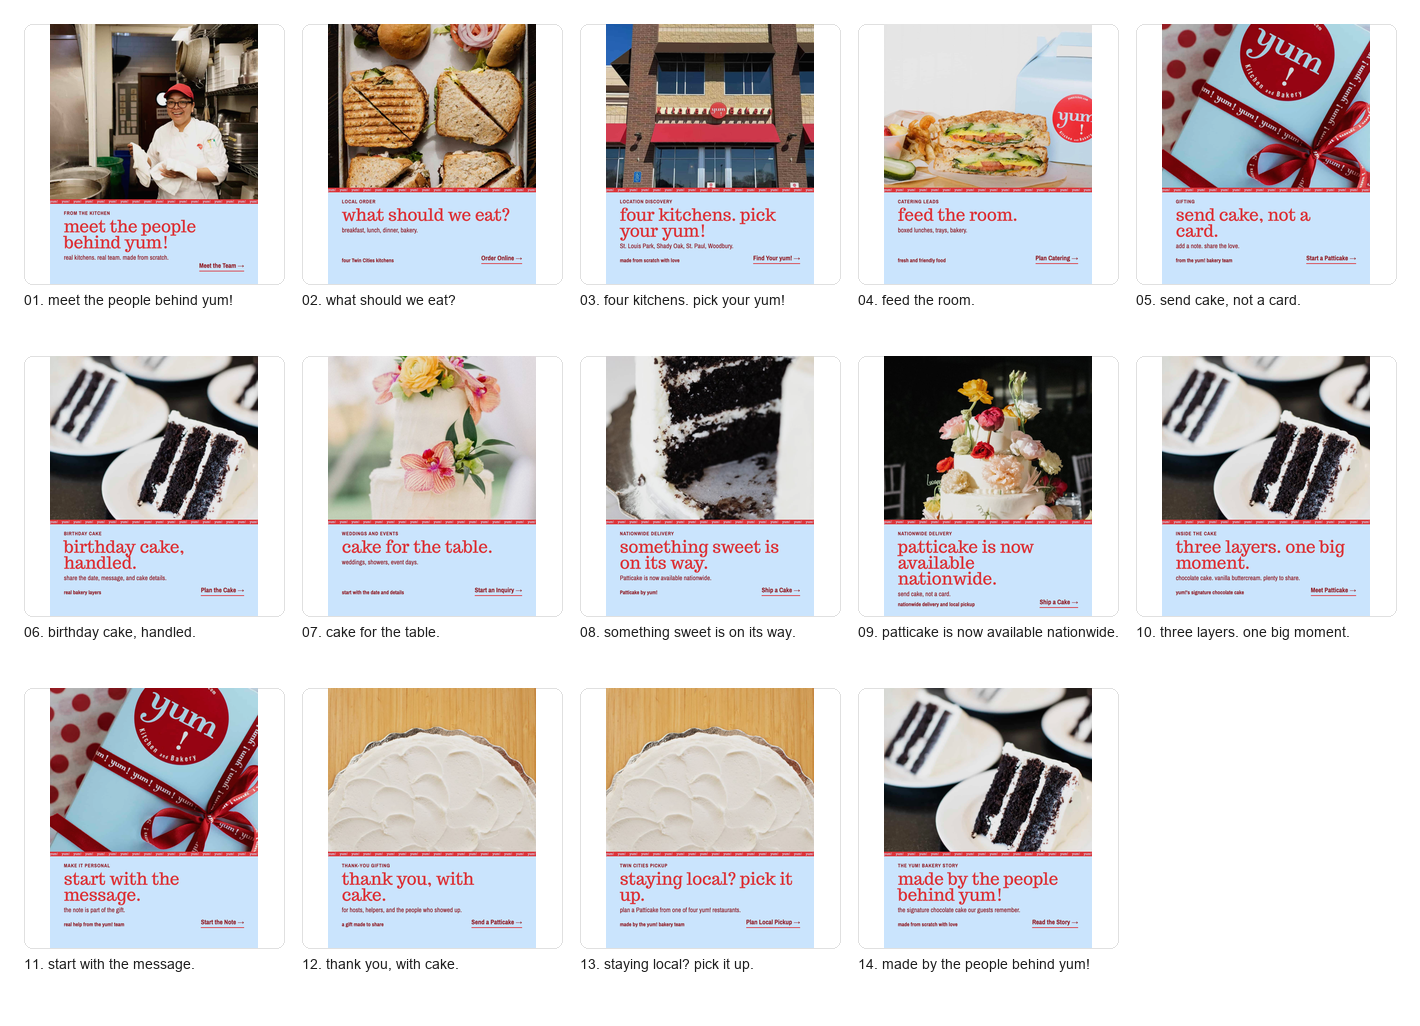
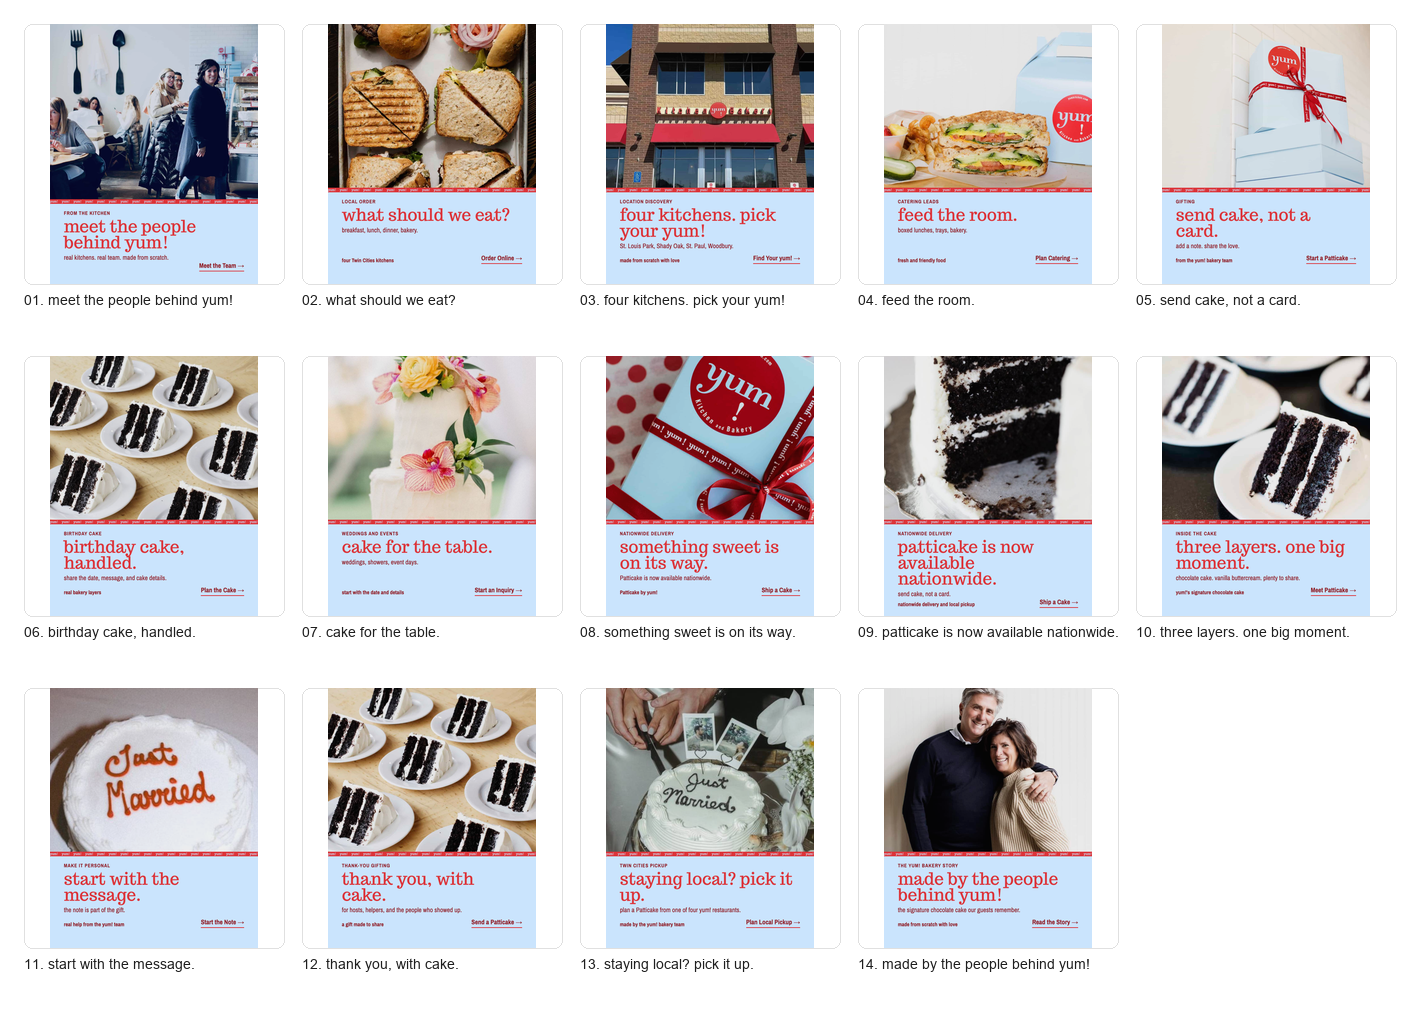
Sprint round: Patti's leader card and the v8 social still refresh
Site: Patti joins the about-page leader grid with her verified photo
(the original site ran it as her shady-oak leader card), linked to
/location/shady-oak; the grid goes 2x2 at md and one row of four at lg.

Social pack: all 84 campaign stills and both review boards re-rendered
with the repaired photo pool. The blurry vertical and the white top-view
are out of every lane, the nationwide lane finally shows the shippable
product instead of a wedding tier, made-by-yum runs the founders
portrait, start-the-note runs the piped-message cake, and the
people lane leads with Patti. Still-scene selection is per-format
(story=0, feed/square/pin=1, wide=3), so lane heroes sit at index 1.
Motion masters and delivery ZIPs remain v7, recorded in provenance.md;
re-render motion before shipping ZIPs.

Verified: four leader cards render with photos loaded, typecheck and
lint clean, fresh contact sheet inspected lane by lane.

diff --git a/yumkitchen-web/app/about/page.tsx b/yumkitchen-web/app/about/page.tsx
@@ -58,7 +58,8 @@ export default function AboutPage() {
         <div className="container-content">
           <p className="section-label">behind the counter</p>
           <h2 className="text-h2 lowercase">people who make the room feel like yum!</h2>
-          <div className="stagger-reveal mt-8 grid gap-5 md:grid-cols-3" data-reveal>
+          {/* Four cards since Patti joined the grid: 2x2 at md, one row at lg. */}
+          <div className="stagger-reveal mt-8 grid gap-5 md:grid-cols-2 lg:grid-cols-4" data-reveal>
             {leaderCards.map((leader) => {
               const body = (
                 <>

diff --git a/yumkitchen-web/lib/site.ts b/yumkitchen-web/lib/site.ts
@@ -371,6 +371,15 @@ export type LeaderCard = {
 
 export const leaderCards: readonly LeaderCard[] = [
   {
+    // Provenance: the original yumkitchen.com about page ran this photo as
+    // Patti's own location-leader card ("Patti / More on yum! shady oak"),
+    // verified 2026-08-05 against the site archive's about.html.
+    name: 'Patti',
+    role: 'founder, at Shady Oak',
+    href: '/location/shady-oak',
+    image: '/images/yum-patti-shady-oak.jpg',
+  },
+  {
     name: 'Hugo',
     role: 'chef and hospitality team',
     // Hugo is not tied to a single location page, so this card carries no

diff --git a/social/yum-patticake-creative-launch-2026-07-14/provenance.md b/social/yum-patticake-creative-launch-2026-07-14/provenance.md
@@ -18,3 +18,17 @@
 - `yum-chef-kitchen-adobe.png` comes from `yumkitchen-web/public/images/yum-chef-kitchen.jpg`, Adobe asset `urn:aaid:sc:US:26b267bc-bd59-4e8b-b099-7a29a90ee7d6`.
 - The animated Patticake slice logo starts from the owned `layers_slice_vertical.jpg` photograph, then resolves into a stylized three-layer mark. The illustration is a brand device, not replacement product photography, and uses the real yum! badge in the final lockup. Social masters use the packaging baby blue; transparent WebM and ProRes 4444 files are provided for compositing.
 - All durable video masters are silent by design and encoded for sound-off comprehension. Add only rights-cleared, platform-native audio during publishing.
+
+## v8 still refresh, August 5, 2026
+
+Stills and review boards re-rendered from updated `src/specs.json`: the
+blurry `layers_slice_vertical` and overexposed `03_top_view` are out of
+every lane, the nationwide lane now shows the shippable product instead of a
+wedding tier, `made-by-yum` runs the verified founders portrait,
+`start-the-note` runs the piped-message cake, and `people-behind-the-plate`
+leads with Patti's verified photo. New sources added to `public/images/`:
+`gift_boxes_stack.jpg` (Yum_0015), `slices_rows.jpg` (Yum_0197),
+`yum-founders-patti-robbie.jpg` (Yum_0467), `yum-patti-shady-oak.jpg`
+(original-site Patti leader card). **Motion masters and delivery ZIPs remain
+v7**: re-render motion before shipping any ZIP, since specs now describe v8
+image sequences. SHA256SUMS still matches the v7 ZIPs on disk.
